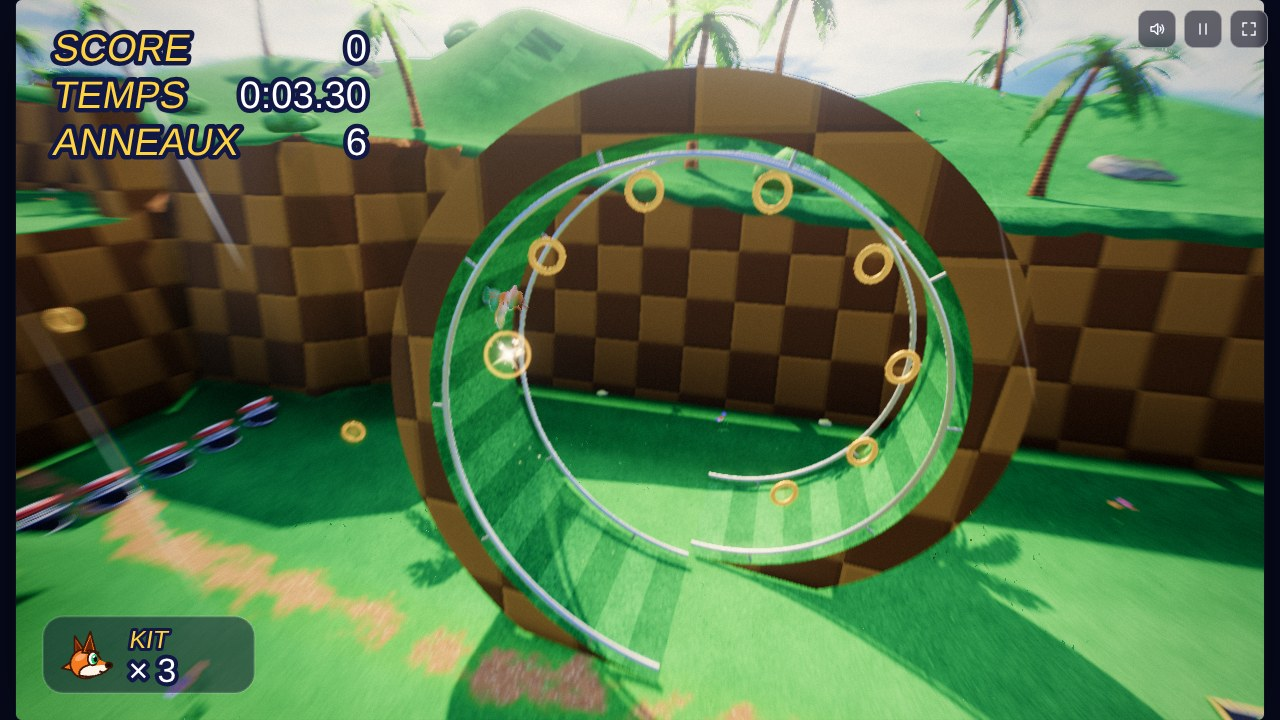
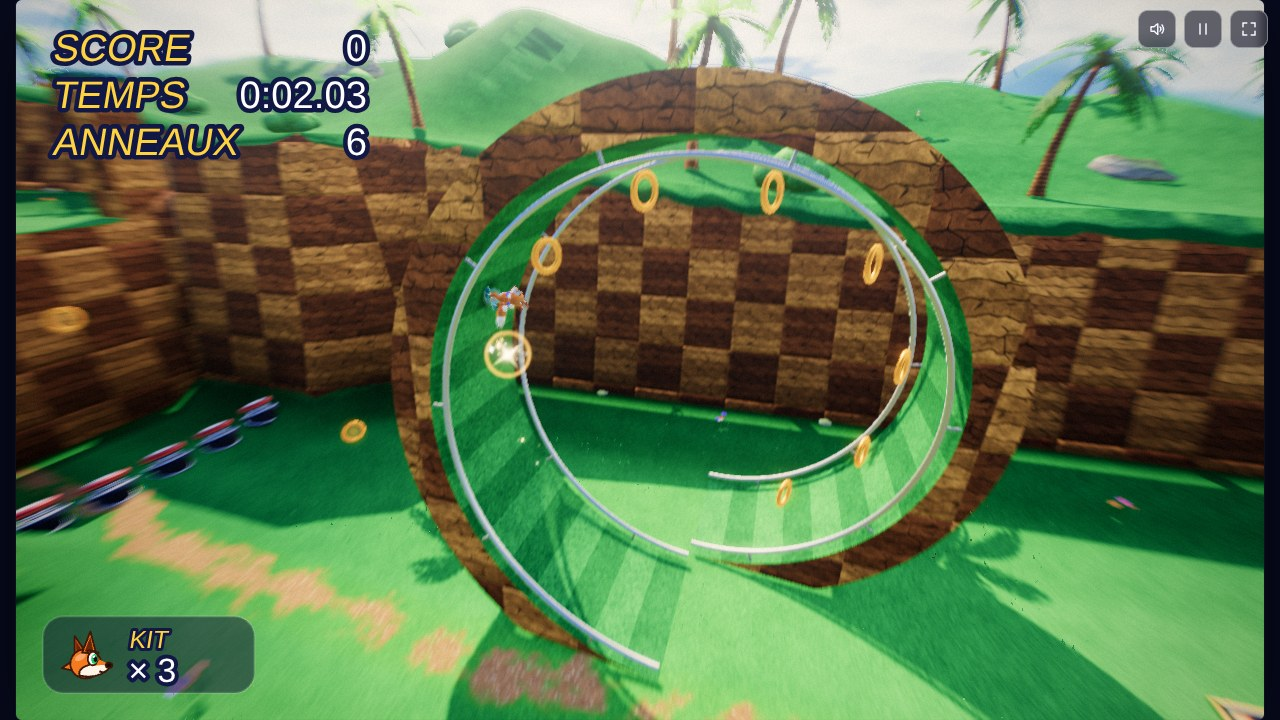
v3 : corrections vérifiées (WebGL 2 99/99, WebGPU 6/6), captures refaites
Claude-Session: https://claude.ai/code/session_01NSrxVxigDTW8jtbSmEqtvy

diff --git a/dev/fixer3/STATUS.md b/dev/fixer3/STATUS.md
@@ -115,3 +115,25 @@
   original also differed from v2 there: 171 ticks). randprobe.js: Math.random consumers during Act 1 play identical (5,
   audio noise) in orig and new. Checking run-to-run determinism: det3.js on orig + new -> logs/orig-det-*, new-det-*.
 - S2 (end): e2e fix3 A/B done (see RESUME NOTES); phone 8/8; det analysis in progress; alloc3 interrupted.
+- S3 (resumed 2026-11-03, tree c8c69af): sites rebuilt (1121050 B). randprobe2.js (wrapper installed before page
+  scripts, so captured refs are seen): between the re-seed and tick 807, orig 525 / new 575 seeded calls; the extra ones
+  are all in 40-entities visual FX (fxTwinkle ring glints 119 -> 161, P_ particle rot, fxSpark rdir); scatterRings
+  36 = 36, no gameplay consumer differs. Kit pos/vel, scores, records identical. -> documented as not gameplay (same
+  class as the review's v2 vs v3 note; the original build also varies run to run in the boss segment). DONE, moving on.
+- S3: fix3 suite on the final src: 12/12 (logs/fix3-new-3.log; rails clipped px 50). orig rerun -> logs/fix3-orig-3.log. alloc3 running.
+- S3: orig fix3 rerun: 0/11 (logs/fix3-orig-3.log; rails clipped 867 px, sat .667; legacy row navigates at once ->
+  harness check fails). alloc3 (logs/alloc3-webgl2.json) KB per unit, new vs review v3: a1draw 200/197, a2draw 288/1046,
+  a2frames 424/1180, a1frames 671/674, a1sim 72/69, a2sim 70/66 -> Act 2 now close to Act 1; rest = r186 renderer
+  internals (_bindUniforms, _update, getDynamicCacheKey). M1 VERIFIED.
+- S3: step 5: full WebGL 2 e2e started alone -> logs/full-gl.log
+- S3: FULL WebGL 2 e2e on the final build: 99/99 PASS in 2296 s (logs/full-gl.log, logs/e2e-report-gl.json). Next: WebGPU suite.
+- S3: WebGPU e2e 6/6 in 152 s (logs/full-gpu.log). Budgets (e2e v3 spots, scene pass incl. shadows): Act 1 U 156/1.85M,
+  H 134/1.42M, M 99/0.69M, L 95/0.50M; Act 2 U 174/0.82M, H 167/0.84M, M 138/0.58M, L 137/0.53M; assets 9.66 MB, Act 1
+  4.25, Act 2 2.99; memc stable (prog 598 -> 620 -> 620). Step 7 (shots) started: logs/shots-*.log.
+- S3: README test count 85 -> 99 (~40 min), SPEC3 tests notes (fix3, --page, T.grab/T.img). Shots batch A done (shots/v3-*.png, 0 errors; read v3-a1loop, a1lakeside, kitflight, vehvans: OK). Batches B-D + docs running (dev/fixer3/shots.sh).
+- S3: shots done, 0 errors: shots/v3-*.png (24 Élevé views, a1valley/a2street x ultra/high/medium/low/medium-sr +
+  a1valley-ultra-sr, phone title/a1run/a1loop/a2street/a2works/a2orbit, gpu a1start/a2street/kit34); preset/phone stats
+  within budget (max Ultra 194 calls / 1.82 M, Moyen 149 / 0.72 M, phone Moyen 151 / 0.66 M). docs/screenshots/*.jpg
+  (8, same names) regenerated from dev/fixer3/shots/doc-*.png (HUD). Read: v3-a1loop, a1lakeside, kitflight, vehvans,
+  phone-a1loop, doc-a1loop, doc-a1run, doc-a2flight2, GL vs GPU a1start pair: OK.
+- NEXT: write report.json + final message.

diff --git a/docs/SPEC3.md b/docs/SPEC3.md
@@ -327,7 +327,11 @@ Light intensities were first rebalanced for physical units by multiplying the v2
 ### Tests (test/e2e.js)
 - `./build.sh && node test/e2e.js` — every suite on the WebGL 2 backend (`test.html?gl`), Chromium + SwiftShader.
   `--only=` any of `desktop,valley,boss` (the Act 1 desktop run), `v3` (backend + fallback, K.tex sample, assets budget,
-  no GLSL, perf budgets per preset, legacy page), `act2, post, fullrun, regress, present, regress2, phone`.
+  no GLSL, perf budgets per preset, legacy page), `act2, post, fullrun, regress, present, regress2, phone`, `fix3`
+  (regression checks for the v3 review findings: cliff rock detail, totems, ring saturation, Kit sharp in loop 1, Ultra
+  grass stability, Act 2 Économie -> Moyen -> Économie shadows, cache-key rebuilds / alphaTest casters, fog-bank edge,
+  van lamps, rails, "Version classique" confirm). `--page=<path>` tests another build (A/B against an older tree).
+  Whole default run: 99 checks, ~38 min here; `--webgpu`: 6 checks.
   `node test/e2e.js --webgpu` = WebGPU suite (boot, Act 1 sample, Act 2 sample, presets, no errors; SwiftShader Vulkan:
   the first boot compiles every pipeline on the CPU, several minutes).
 - Typical durations on this sandbox (4 shared CPUs, SwiftShader): desktop,valley,boss ≈ 95 s; v3 ≈ 115 s;
@@ -343,7 +347,8 @@ Light intensities were first rebalanced for physical units by multiplying the v2
 - In-page helpers (test/page-helpers.js): `T.ticks(n)`, `T.frame()` (one tick + a drawn frame), `T.renderNow()` (draw
   without ticking), `T.pixels()` / `T.pixelsGL()` (canvas pixels via a 2D canvas copy, top-first / bottom-first),
   `T.glStats()` (mean/std/colours + draw calls), `T.drawStats()`, `T.mem()` (renderer.info.memory: geo/tex/programs),
-  `T.sync()`. `dev/foundation/run.js --eval="…" --shot=…png [--webgpu] [--phone] [--q=?gl&nopost]` runs a snippet in a
+  `T.sync()`, `T.grab()` (the canvas as last drawn, no extra render: keeps a `T.frame()`'s motion blur; same task),
+  `T.img.{hueTop, detail, rowStep, lumaBox}` (image metrics on a grab). `dev/foundation/run.js --eval="…" --shot=…png [--webgpu] [--phone] [--q=?gl&nopost]` runs a snippet in a
   booted test page (handy for probes and screenshots).
 
 ### r186 / TSL gotchas we hit

diff --git a/README.md b/README.md
@@ -136,9 +136,9 @@ npm run test:webgpu   # les tests WebGPU
 
 `test/e2e.js` lance le jeu dans Chromium sans écran (rendu logiciel) et joue les deux actes : parcours, loopings,
 boss, skateboard, vol, post-traitement et niveaux de qualité, budgets de performance, textures, téléphone, version
-classique (85 vérifications, dont les 74 de la version 2 avec le même sens). Compte environ 30 minutes, car tout est
-dessiné par le processeur. Les tests WebGPU (démarrage, extraits des deux actes, niveaux de qualité, aucune erreur :
-6 vérifications) prennent quelques minutes.
+classique, et les défauts corrigés après la relecture de la v3 (99 vérifications, dont les 74 de la version 2 avec le
+même sens). Compte environ 40 minutes, car tout est dessiné par le processeur. Les tests WebGPU (démarrage, extraits
+des deux actes, niveaux de qualité, aucune erreur : 6 vérifications) prennent quelques minutes.
 
 ## Activer GitHub Pages
 
